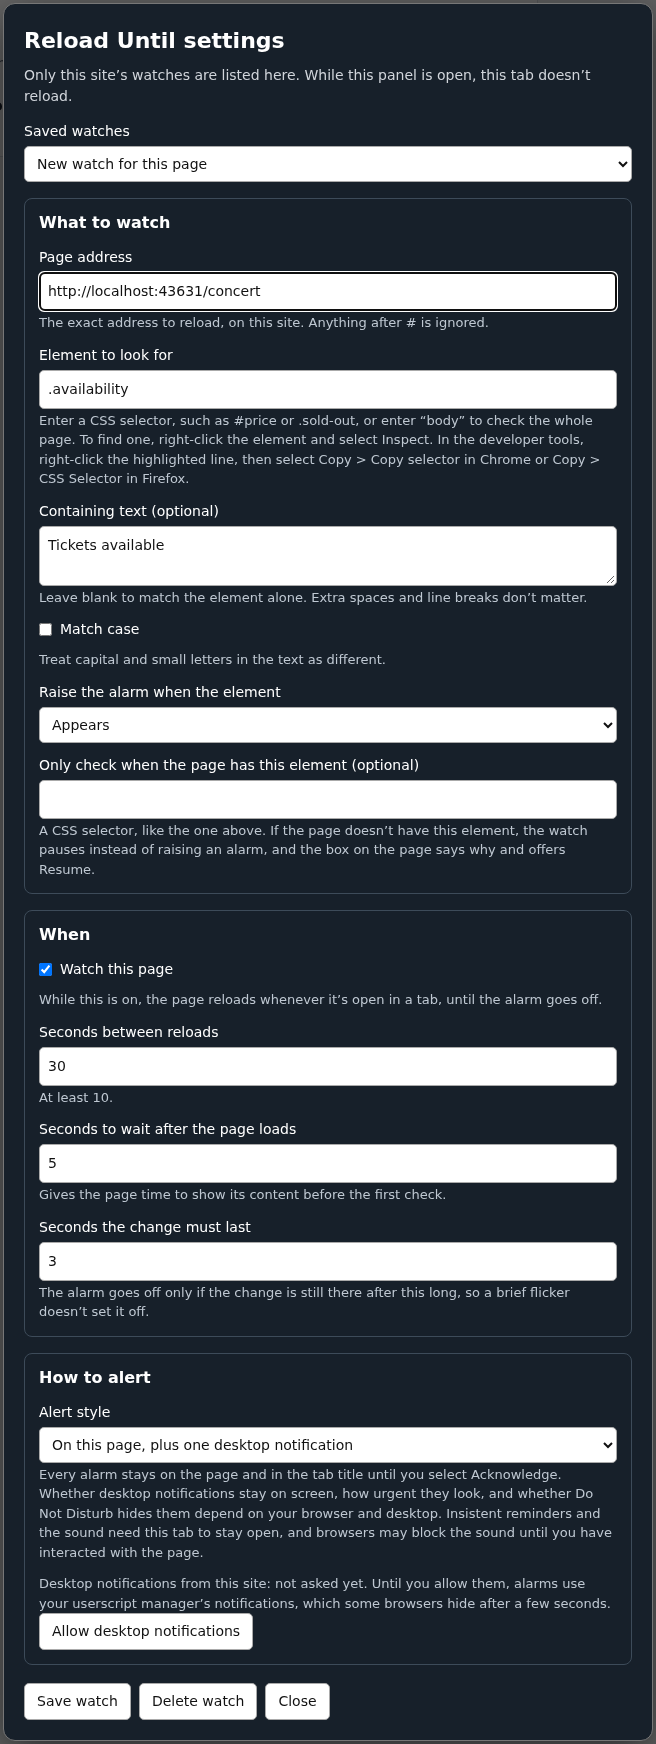
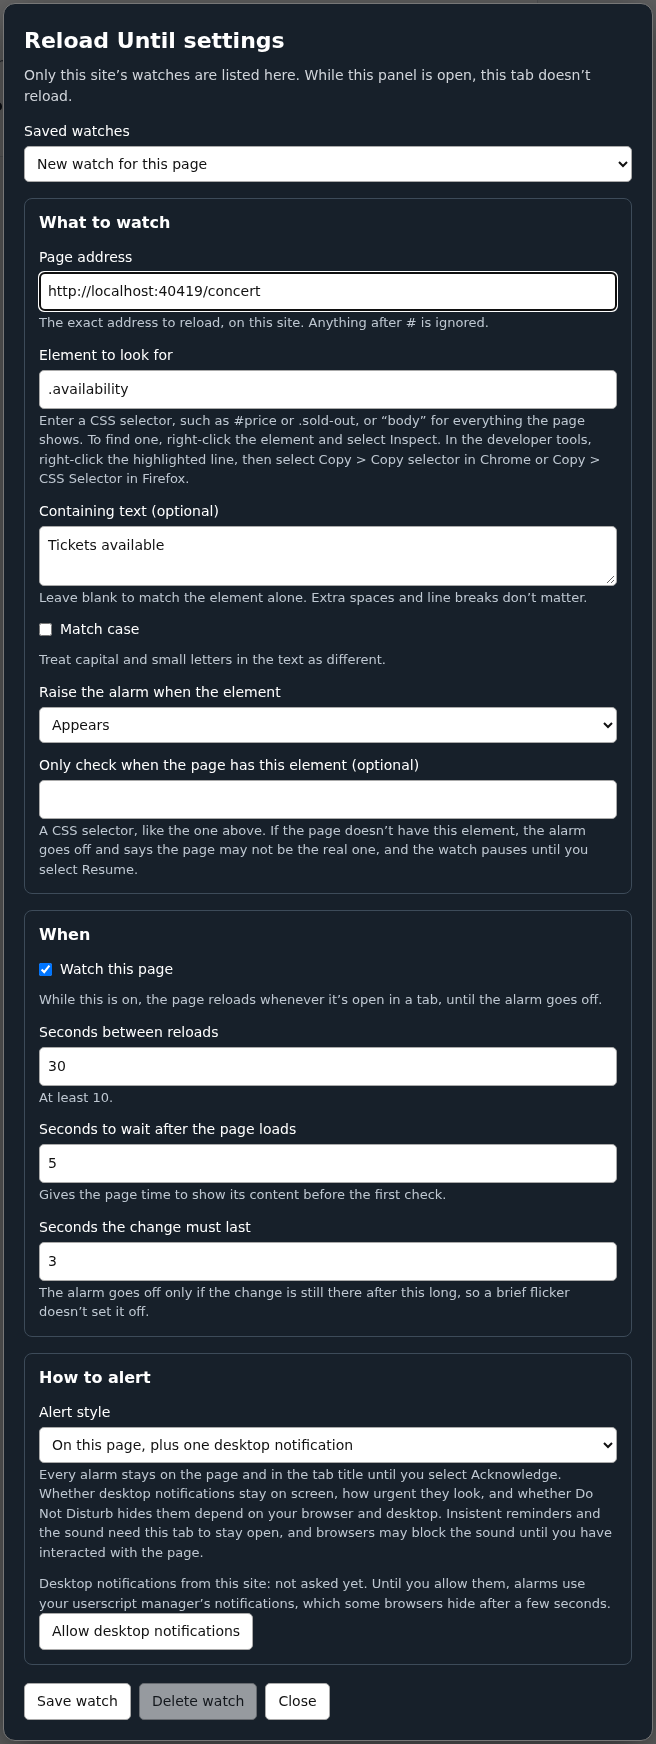
docs(reload-until): retake the settings screenshot with the new help text and dimmed buttons

diff --git a/scripts/reload-until/README.md b/scripts/reload-until/README.md
@@ -105,7 +105,7 @@ the alarm first.
 
 ## Settings
 
-![The Reload Until settings panel with three groups. What to watch has the page address, the element .availability and the text Tickets available, set to raise the alarm when the element appears. When has Watch this page turned on, with 30 seconds between reloads. How to alert has the alert style set to one desktop notification, and an Allow desktop notifications button.](images/settings.png)
+![The Reload Until settings panel with three groups. What to watch has the page address, the element .availability and the text Tickets available, set to raise the alarm when the element appears. When has Watch this page turned on, with 30 seconds between reloads. How to alert has the alert style set to one desktop notification, and an Allow desktop notifications button. The Delete watch button is dimmed, because the watch isn't saved yet.](images/settings.png)
 
 The settings panel lists only the watches for the site you are on, under
 **Saved watches**. While it is open, the tab doesn't reload. It warns you before
